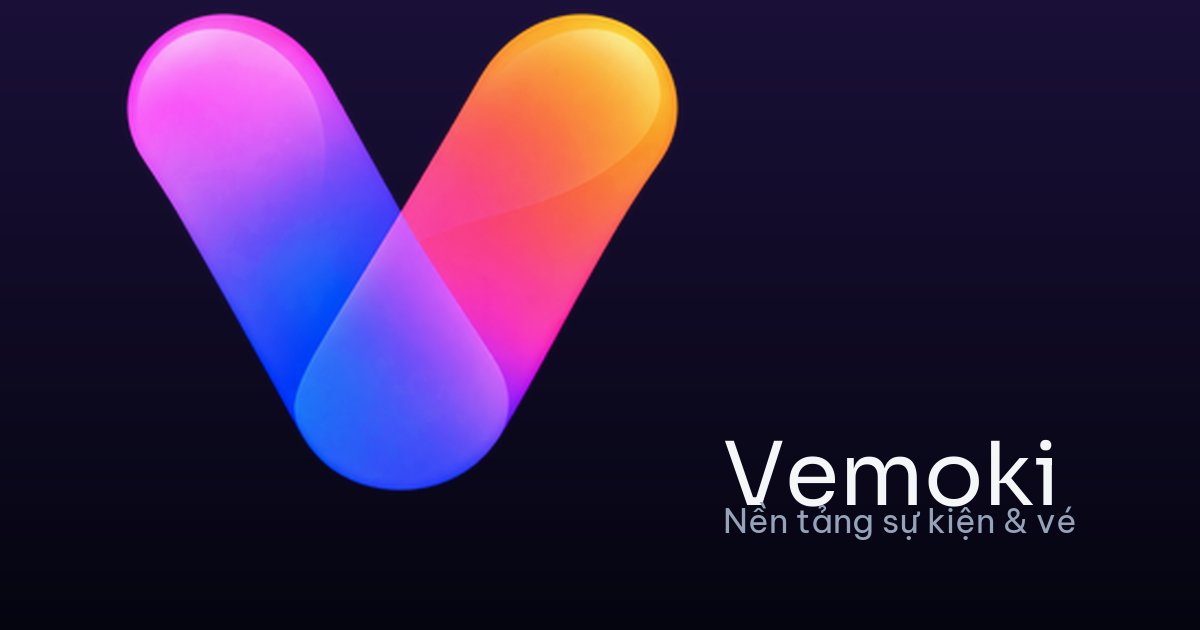
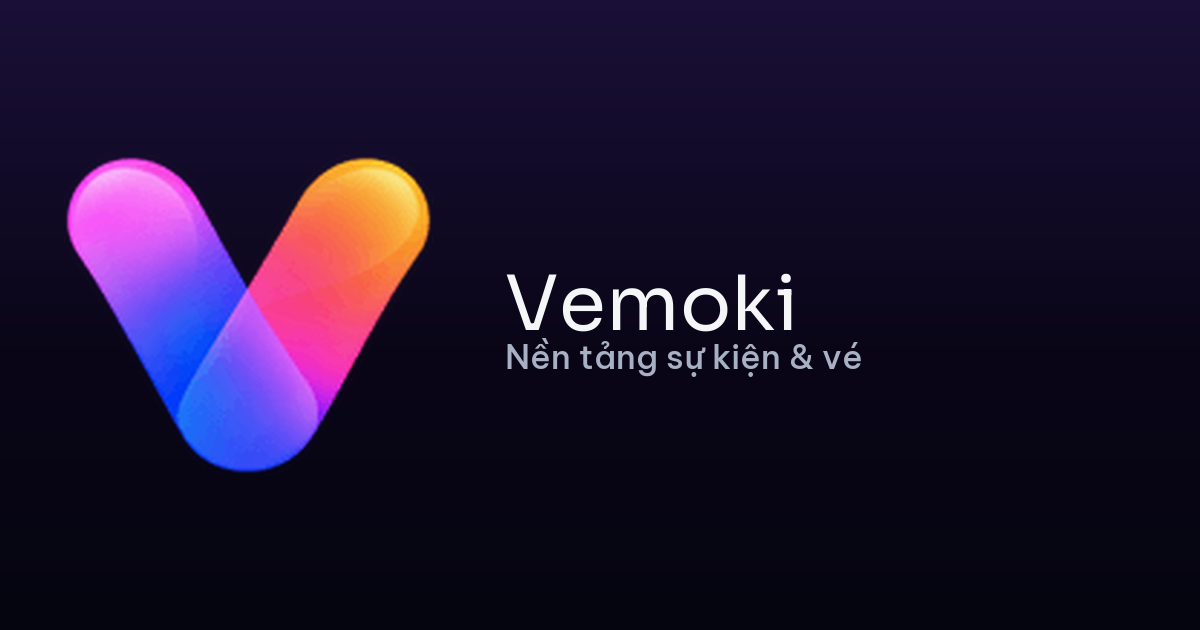
fix(web): correct VD-09 OG layout and raster product BrandMark
Regenerate 1200×630 opengraph with safe margins and balanced mark/text; replace hand-traced SVG fallback with approved neon raster paths from vemoki branding constants.

Changed region(s): [[0.0308, 0.0, 0.74, 0.7841], [0.5858, 0.6937, 0.8942, 0.8746]]

diff --git a/apps/web/src/brand-mark.tsx b/apps/web/src/brand-mark.tsx
@@ -1,9 +1,15 @@
 'use client';
 
-import { attendeeBrandMark, attendeeBrandMarkImg } from './attendee-surface';
+import { attendeeBrandMarkImg } from './attendee-surface';
 import { useBranding } from './branding';
+import {
+  VEMOKI_DEFAULT_MARK_PATH,
+  VEMOKI_DEFAULT_MARK_WEBP_PATH,
+  VEMOKI_PRODUCT_MARK_HEIGHT,
+  VEMOKI_PRODUCT_MARK_WIDTH,
+} from './branding/vemoki';
 
-/** Vemoki mark — two strokes as V; signal punch = Live Pulse accent (tokens.signal). */
+/** Vemoki default mark — approved raster from Logo Kit (not hand-traced SVG). */
 export function BrandMark({
   logoUrl: logoUrlProp,
 }: {
@@ -28,49 +34,18 @@ export function BrandMark({
   }
 
   return (
-    <svg
-      className={attendeeBrandMark}
-      viewBox="0 0 72 77"
-      aria-hidden="true"
-      data-testid="brand-mark-svg"
-    >
-      <defs>
-        <linearGradient
-          id="vemoki-mark-a"
-          x1="25"
-          y1="28"
-          x2="43"
-          y2="61"
-          gradientUnits="userSpaceOnUse"
-        >
-          <stop stopColor="#EF71ED" />
-          <stop offset="0.37" stopColor="#D56AF8" />
-          <stop offset="0.7" stopColor="#6362F1" />
-          <stop offset="1" stopColor="#7265F2" />
-        </linearGradient>
-        <linearGradient
-          id="vemoki-mark-b"
-          x1="56"
-          y1="28"
-          x2="43"
-          y2="59"
-          gradientUnits="userSpaceOnUse"
-        >
-          <stop stopColor="#FFAE58" />
-          <stop offset="0.22" stopColor="#F97867" />
-          <stop offset="0.65" stopColor="#E85191" />
-          <stop offset="1" stopColor="#9562E7" />
-        </linearGradient>
-      </defs>
-      <path
-        d="M52.5 27.3C58.9 26.3 62.8 30.2 60.1 36.2L47.9 59.3C46 62.7 42.5 63.8 39.1 62C35.8 60.3 34.5 56.8 36.3 53.4L47.4 31.2C48.6 28.9 50.3 27.7 52.5 27.3Z"
-        fill="url(#vemoki-mark-b)"
+    <picture>
+      <source srcSet={VEMOKI_DEFAULT_MARK_WEBP_PATH} type="image/webp" />
+      {/* eslint-disable-next-line @next/next/no-img-element -- product mark is a static raster twin */}
+      <img
+        className={attendeeBrandMarkImg}
+        src={VEMOKI_DEFAULT_MARK_PATH}
+        alt=""
+        aria-hidden="true"
+        width={VEMOKI_PRODUCT_MARK_WIDTH}
+        height={VEMOKI_PRODUCT_MARK_HEIGHT}
+        data-testid="brand-mark-svg"
       />
-      <path
-        d="M26.9 27.3C30.2 27.1 32.9 28.7 34.8 32L47.8 53.7C49.7 57.2 48 61.4 44.6 63C40.7 64.8 36.6 62.6 34.4 58.6L21.3 36.2C18.2 30.7 21.7 27.6 26.9 27.3Z"
-        fill="url(#vemoki-mark-a)"
-      />
-      <circle cx="62" cy="18" r="4.2" fill="var(--signal, #E11D48)" />
-    </svg>
+    </picture>
   );
 }

diff --git a/apps/web/src/branding/vemoki.ts b/apps/web/src/branding/vemoki.ts
@@ -3,10 +3,13 @@ import type { TenantBranding } from './types';
 /**
  * Canonical Vemoki defaults from brand/vemoki/tokens.json (Live Pulse v2).
  * Keep in sync with apps/web/app/globals.css :root — branding-theme test.
- * Default product mark: gradient V in `BrandMark` (SVG); raster twins in
- * `app/icon.png` / `app/apple-icon.png` (Vemoki Logo Kit, approved-original).
+ * Default product mark: approved raster in `public/marketing/neon/` (BrandMark);
+ * app icons in `app/icon.png` / `app/apple-icon.png` (Logo Kit, approved-original).
  */
-export const VEMOKI_DEFAULT_MARK_PATH = '/icon.png';
+export const VEMOKI_DEFAULT_MARK_PATH = '/marketing/neon/vemoki-v-mark.png';
+export const VEMOKI_DEFAULT_MARK_WEBP_PATH = '/marketing/neon/vemoki-v-mark.webp';
+export const VEMOKI_PRODUCT_MARK_WIDTH = 128;
+export const VEMOKI_PRODUCT_MARK_HEIGHT = 111;
 
 export const VEMOKI_BRANDING: TenantBranding = {
   wordmark: 'vemoki',

diff --git a/apps/web/src/branding/types.ts b/apps/web/src/branding/types.ts
@@ -29,7 +29,7 @@ export type TenantBranding = {
   primaryColor: string;
   /** Optional secondary accent (also drives --focus when set) */
   secondaryColor: string | null;
-  /** Same-origin or https logo URL; null → SVG BrandMark */
+  /** Same-origin or https logo URL; null → default raster BrandMark */
   logoUrl: string | null;
   logoAssetId: string | null;
   source: BrandingSource;

diff --git a/apps/web/scripts/generate-opengraph-neon.py b/apps/web/scripts/generate-opengraph-neon.py
@@ -1,0 +1,83 @@
+#!/usr/bin/env python3
+"""Compose apps/web/app/opengraph-image.png (1200×630, neon dark, safe margins)."""
+from __future__ import annotations
+
+from pathlib import Path
+
+from PIL import Image, ImageDraw, ImageFont
+
+ROOT = Path(__file__).resolve().parents[1]
+OUT = ROOT / "app" / "opengraph-image.png"
+MARK_SRC = ROOT / "public" / "marketing" / "neon" / "vemoki-v-mark.png"
+FONT_DISPLAY = ROOT / "fonts" / "Sora-Variable.ttf"
+FONT_BODY = ROOT / "fonts" / "BeVietnamPro-Medium.ttf"
+
+W, H = 1200, 630
+MARGIN = 64
+MARK_HEIGHT = 320
+TITLE_SIZE = 76
+SUBTITLE_SIZE = 34
+LINE_GAP = 20
+
+
+def _vertical_gradient(size: tuple[int, int]) -> Image.Image:
+    w, h = size
+    top = (26, 16, 56)
+    mid = (10, 6, 24)
+    bottom = (5, 5, 16)
+    img = Image.new("RGB", size)
+    draw = ImageDraw.Draw(img)
+    for y in range(h):
+        t = y / max(h - 1, 1)
+        if t < 0.55:
+            u = t / 0.55
+            r = int(top[0] + (mid[0] - top[0]) * u)
+            g = int(top[1] + (mid[1] - top[1]) * u)
+            b = int(top[2] + (mid[2] - top[2]) * u)
+        else:
+            u = (t - 0.55) / 0.45
+            r = int(mid[0] + (bottom[0] - mid[0]) * u)
+            g = int(mid[1] + (bottom[1] - mid[1]) * u)
+            b = int(mid[2] + (bottom[2] - mid[2]) * u)
+        draw.line([(0, y), (w, y)], fill=(r, g, b))
+    return img
+
+
+def main() -> None:
+    canvas = _vertical_gradient((W, H))
+    mark = Image.open(MARK_SRC).convert("RGBA")
+    mark_w = int(mark.width * MARK_HEIGHT / mark.height)
+    mark = mark.resize((mark_w, MARK_HEIGHT), Image.Resampling.LANCZOS)
+
+    mark_x = MARGIN
+    mark_y = (H - MARK_HEIGHT) // 2
+    canvas.paste(mark, (mark_x, mark_y), mark)
+
+    title_font = ImageFont.truetype(str(FONT_DISPLAY), TITLE_SIZE)
+    sub_font = ImageFont.truetype(str(FONT_BODY), SUBTITLE_SIZE)
+
+    title = "Vemoki"
+    subtitle = "Nền tảng sự kiện & vé"
+    title_bbox = title_font.getbbox(title)
+    sub_bbox = sub_font.getbbox(subtitle)
+    title_h = title_bbox[3] - title_bbox[1]
+    sub_h = sub_bbox[3] - sub_bbox[1]
+    block_h = title_h + LINE_GAP + sub_h
+    text_x = mark_x + mark_w + 72
+    text_y = (H - block_h) // 2
+
+    draw = ImageDraw.Draw(canvas)
+    draw.text((text_x, text_y), title, font=title_font, fill=(244, 246, 248))
+    draw.text(
+        (text_x, text_y + title_h + LINE_GAP),
+        subtitle,
+        font=sub_font,
+        fill=(168, 176, 196),
+    )
+
+    canvas.save(OUT, format="PNG", optimize=True)
+    print(f"wrote {OUT} ({W}x{H})")
+
+
+if __name__ == "__main__":
+    main()
